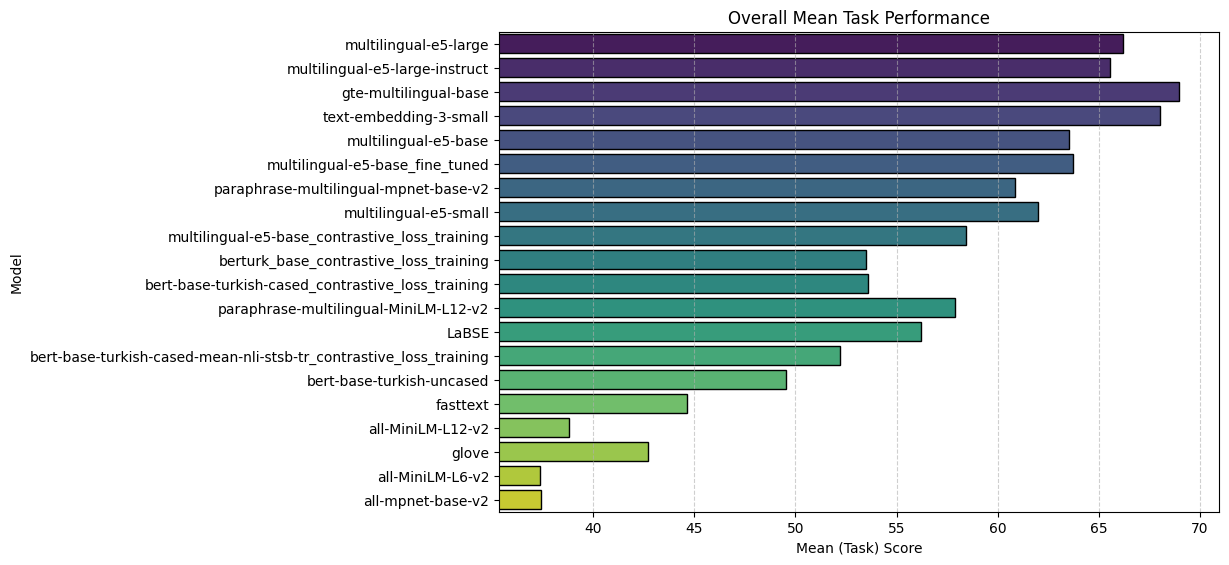
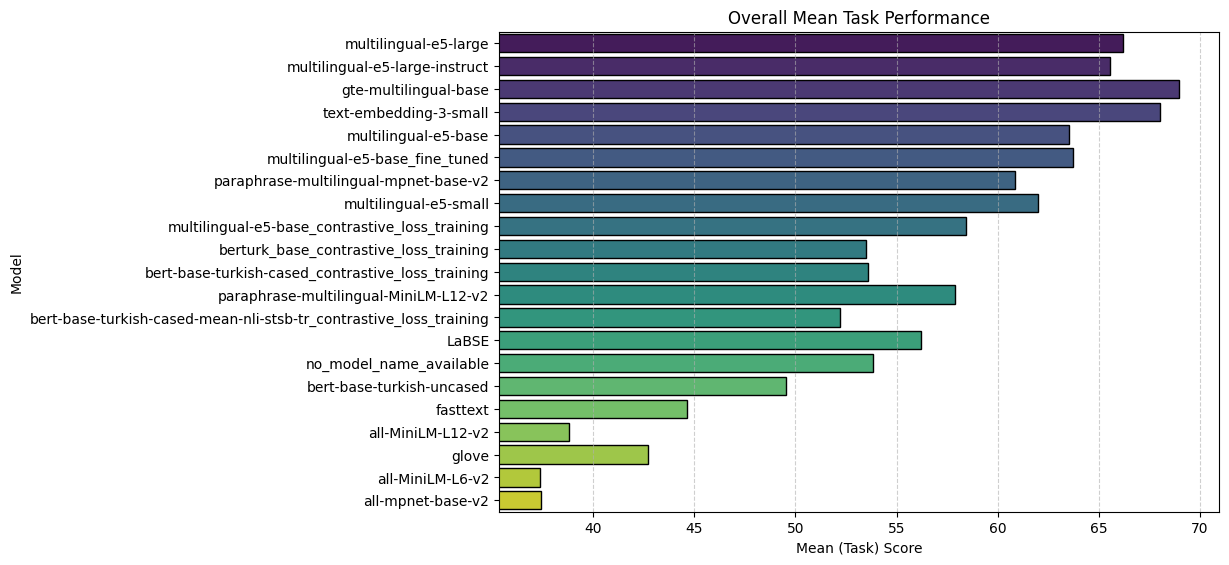
new results are added

Changed region(s): [[0.0309, 0.0602, 0.9585, 0.8726]]

diff --git a/run_evaluation.py b/run_evaluation.py
@@ -20,7 +20,8 @@ def evaluate_model(model_name):
 
 models = [
     #'selmanbaysan/multilingual-e5-base_fine_tuned',
-    "dbmdz/bert-base-turkish-uncased",
+    #"dbmdz/bert-base-turkish-uncased",
+    "selmanbaysan/bert-base-turkish-cased_large_scale_contrastive_learning"
 ]
 
 for model in models:

diff --git a/create_table.py b/create_table.py
@@ -113,7 +113,7 @@ if __name__ == "__main__":
     parser.add_argument(
         "--benchmark",
         type=str,
-        required=True,
+        default="MTEB(Turkish)",
         help=f"Which benchmark to load. Available: {get_available_benchmarks()}",
     )
 
